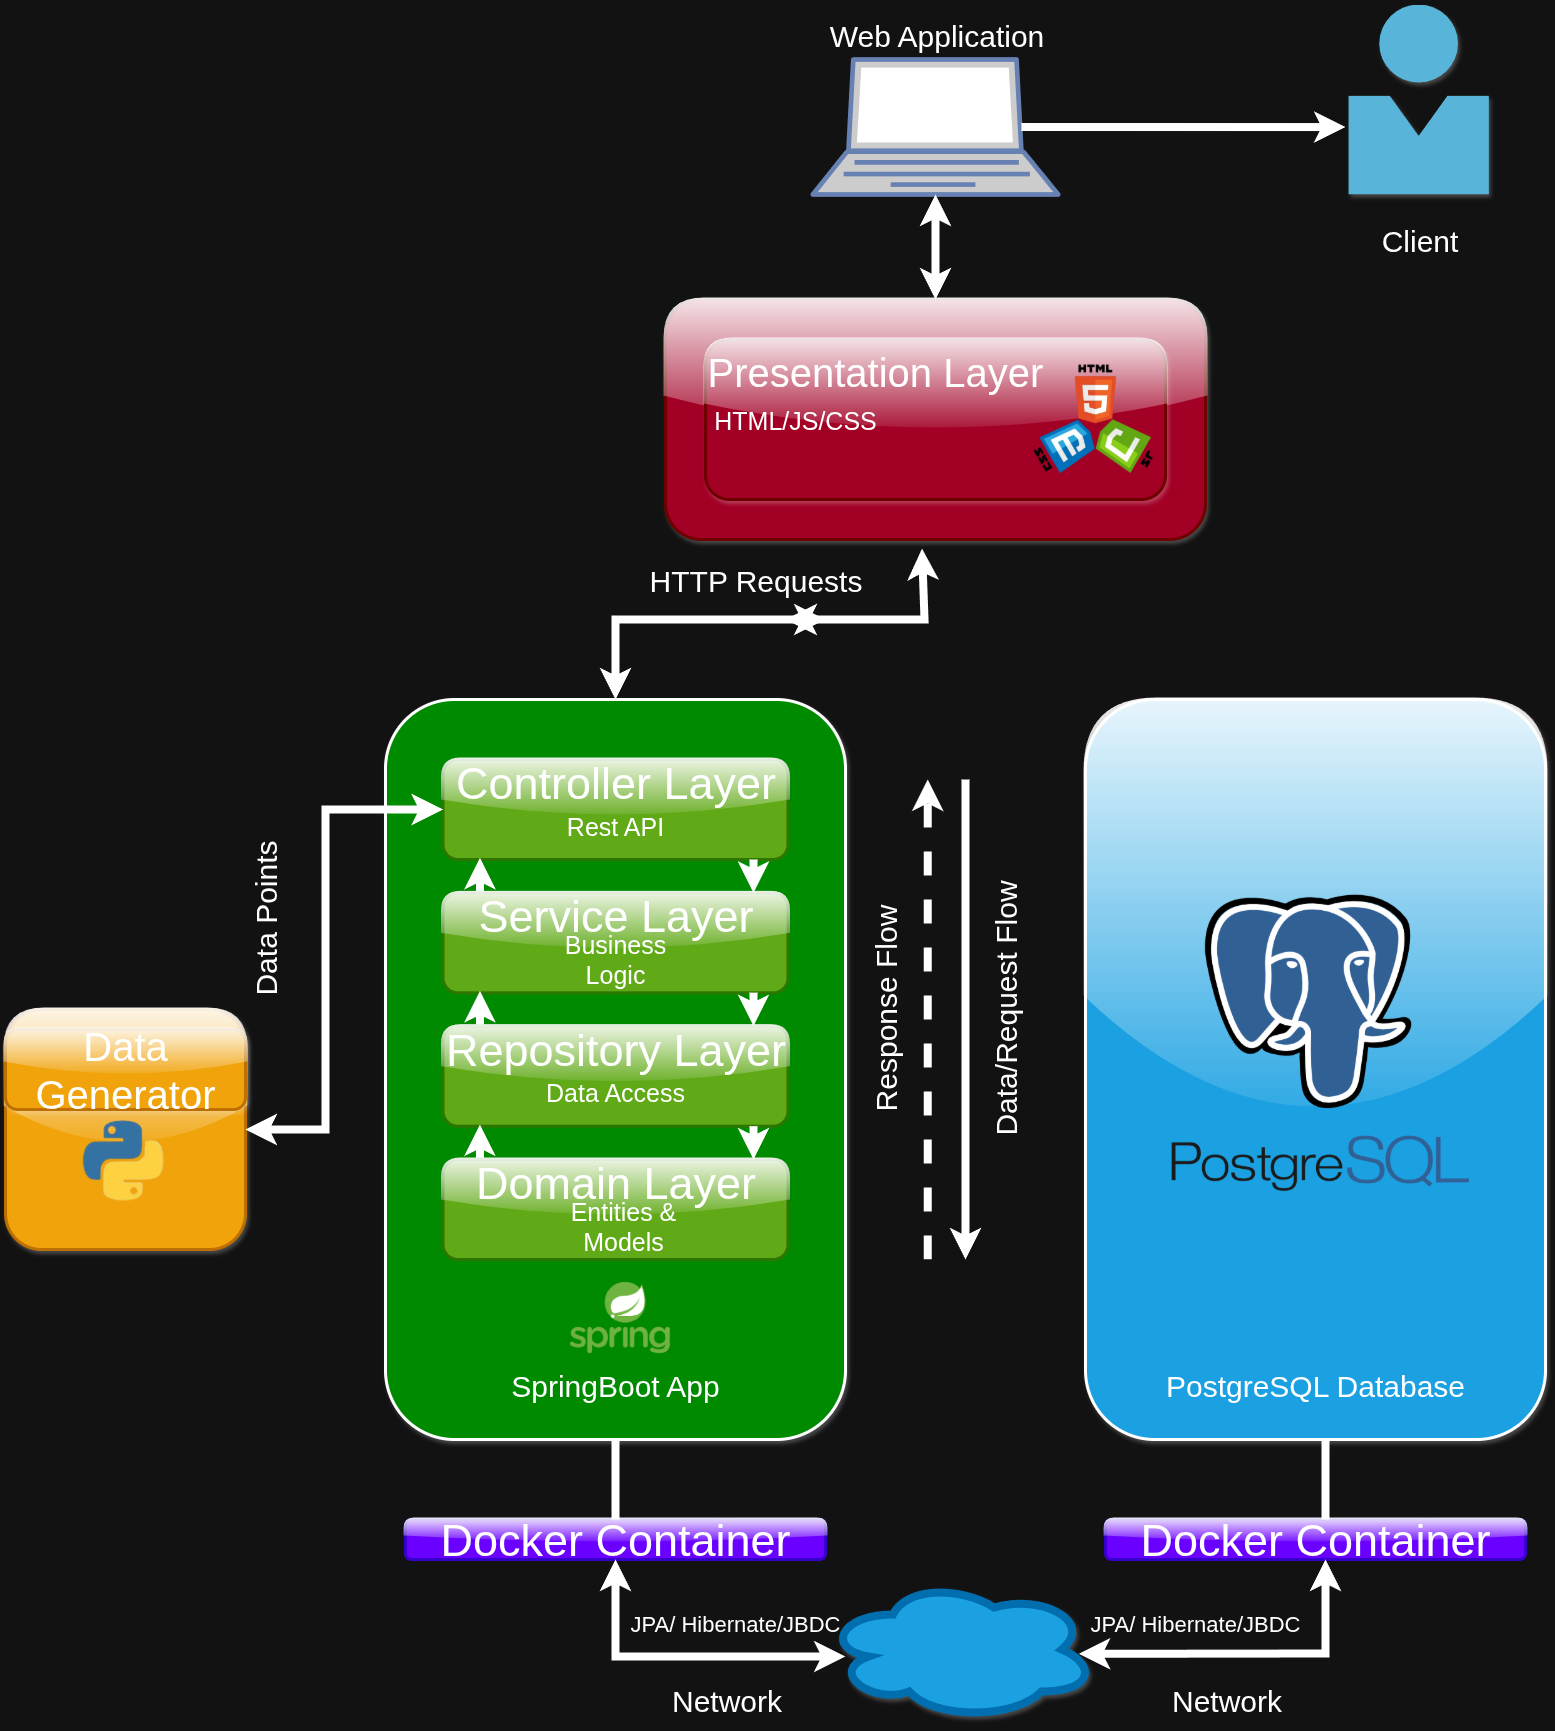
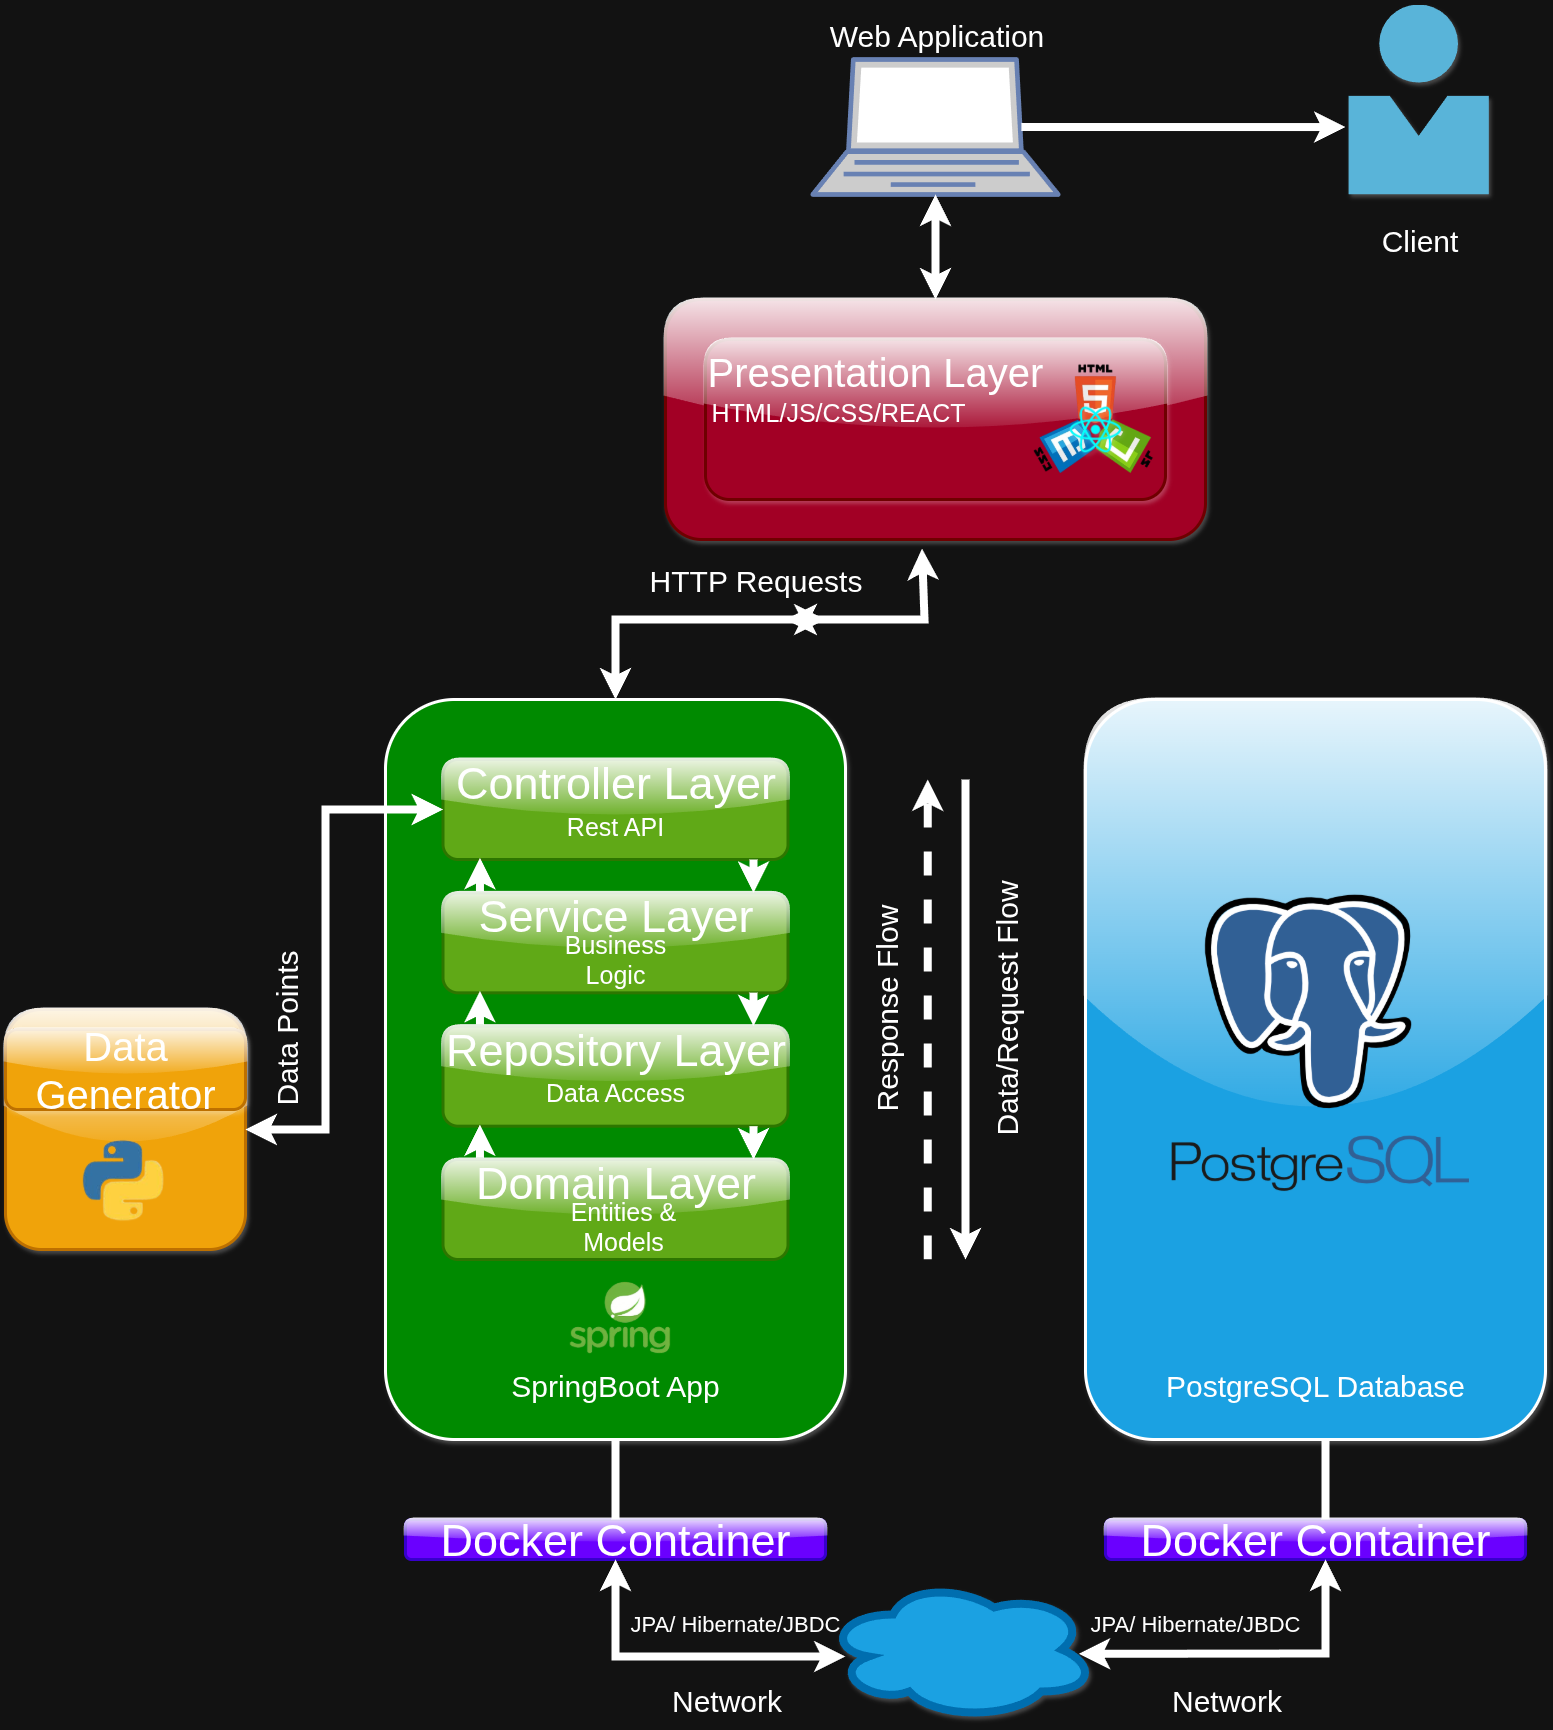
## [0.2.10] - 2026-03-19 #4, contributed by **Daniel Martins - 115868 - DevOps Master** ### Added --- ### Changed - **architecture-notebook.md**- Included **REACT**  in the `technologies used` section - **architecture.png** - Added **REACT** to the diagram

diff --git a/projX/docs/architecture-notebook/architecture-notebook.md b/projX/docs/architecture-notebook/architecture-notebook.md
@@ -9,7 +9,7 @@ We chose this pattern for its simplicity and flexibility, as it is widely used a
 
 
 ## Technology Decisions
-The backend will be developed using `Spring Boot`, the database is a relational `PostgreSQL` instance, and the frontend will be built with `HTML`, `JavaScript`, and `CSS`.
+The backend will be developed using `Spring Boot`, the database is a relational `PostgreSQL` instance, and the frontend will be built with `HTML`, `JavaScript`,`CSS` and `React`
 
 Following the project guidelines provided by the professors, we chose to containerize both our application and the database into two separate `Docker` containers. These containers communicate with each other through a dedicated `Docker` network.
 
